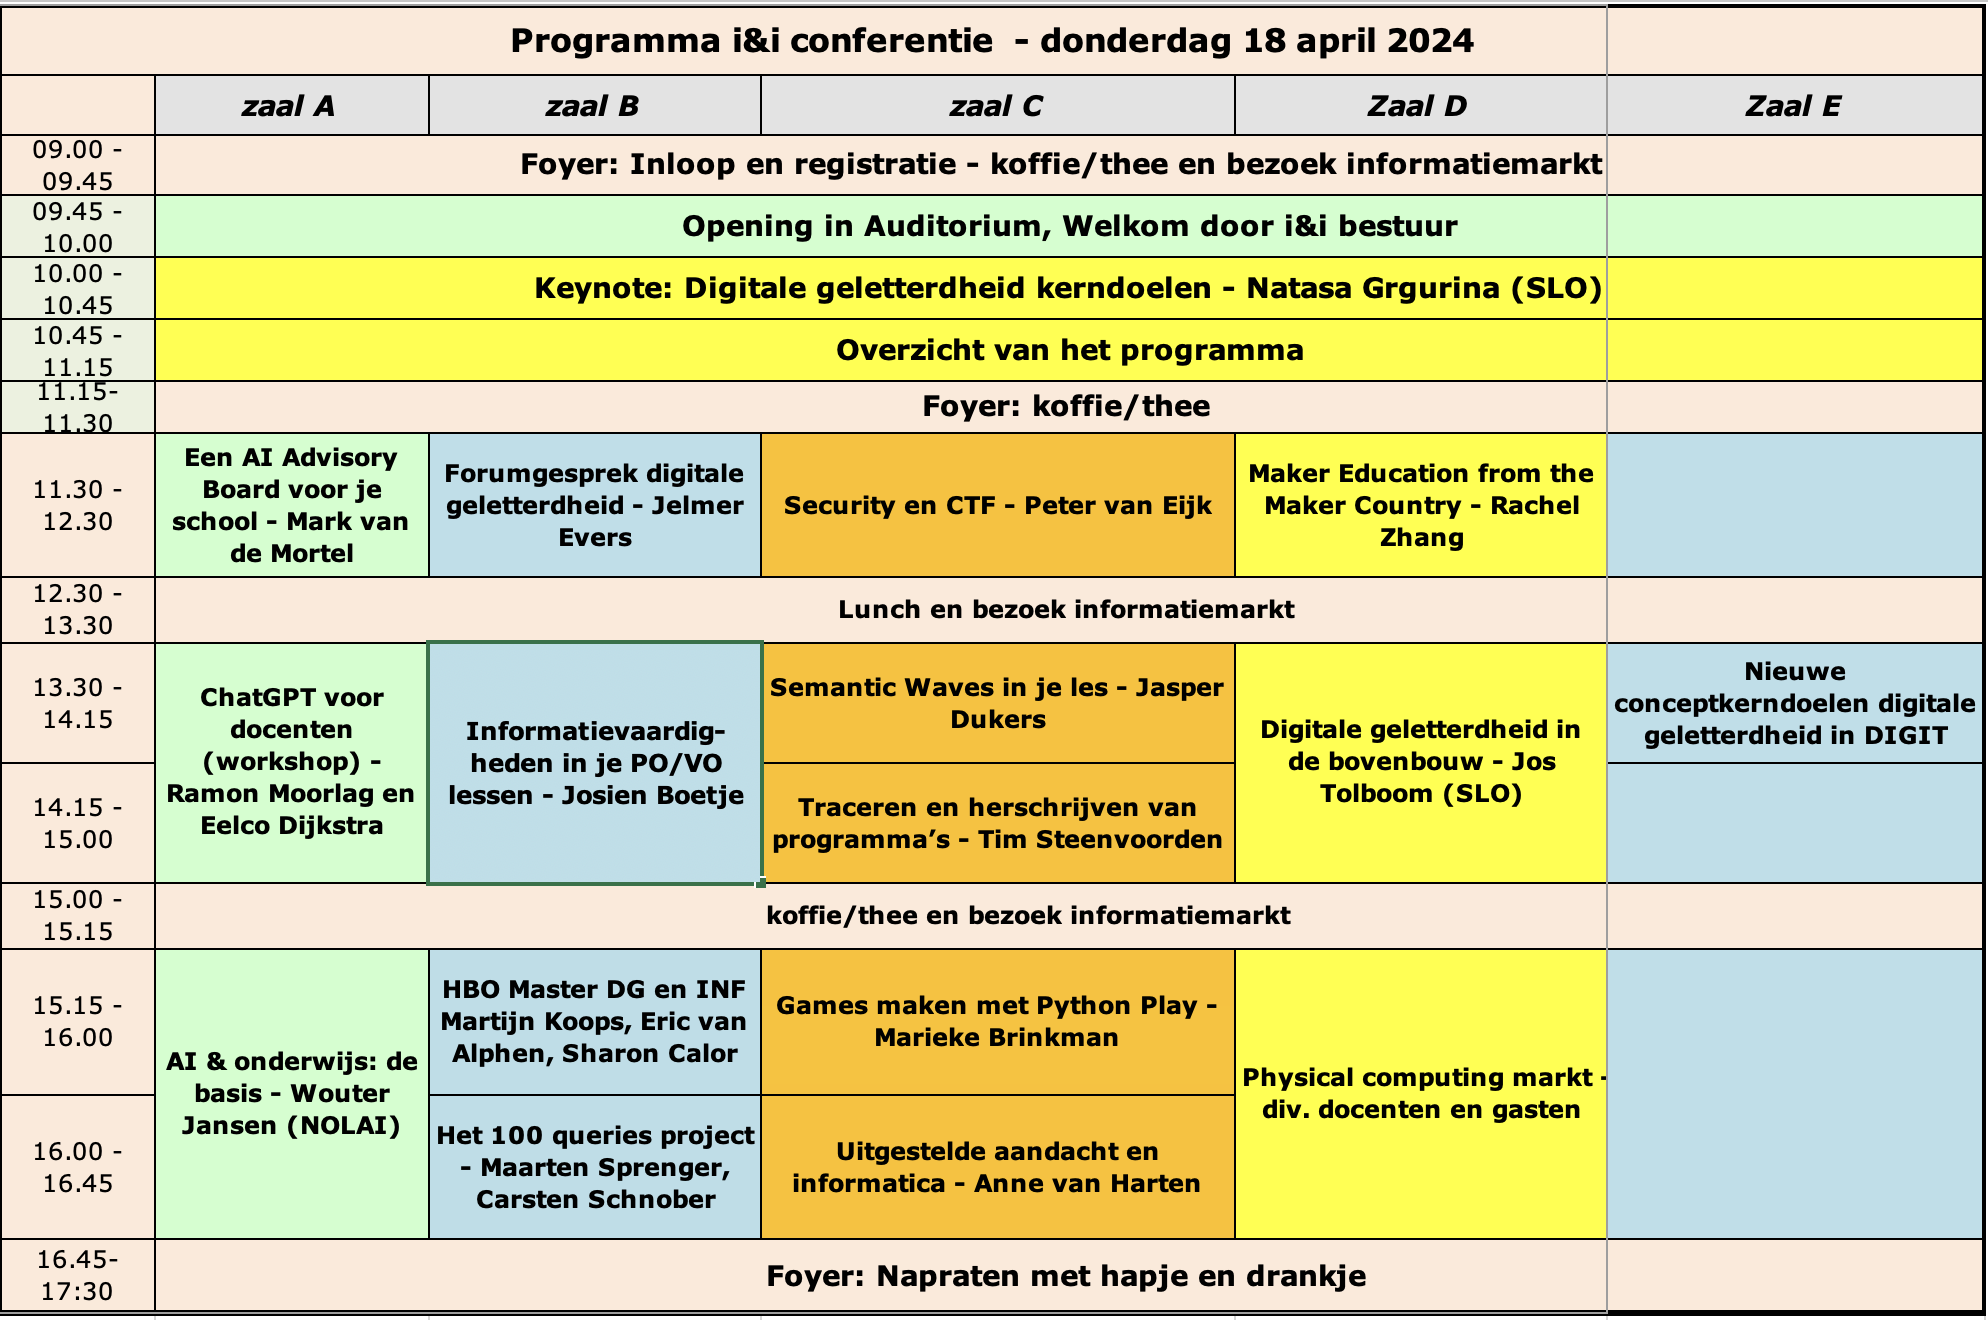
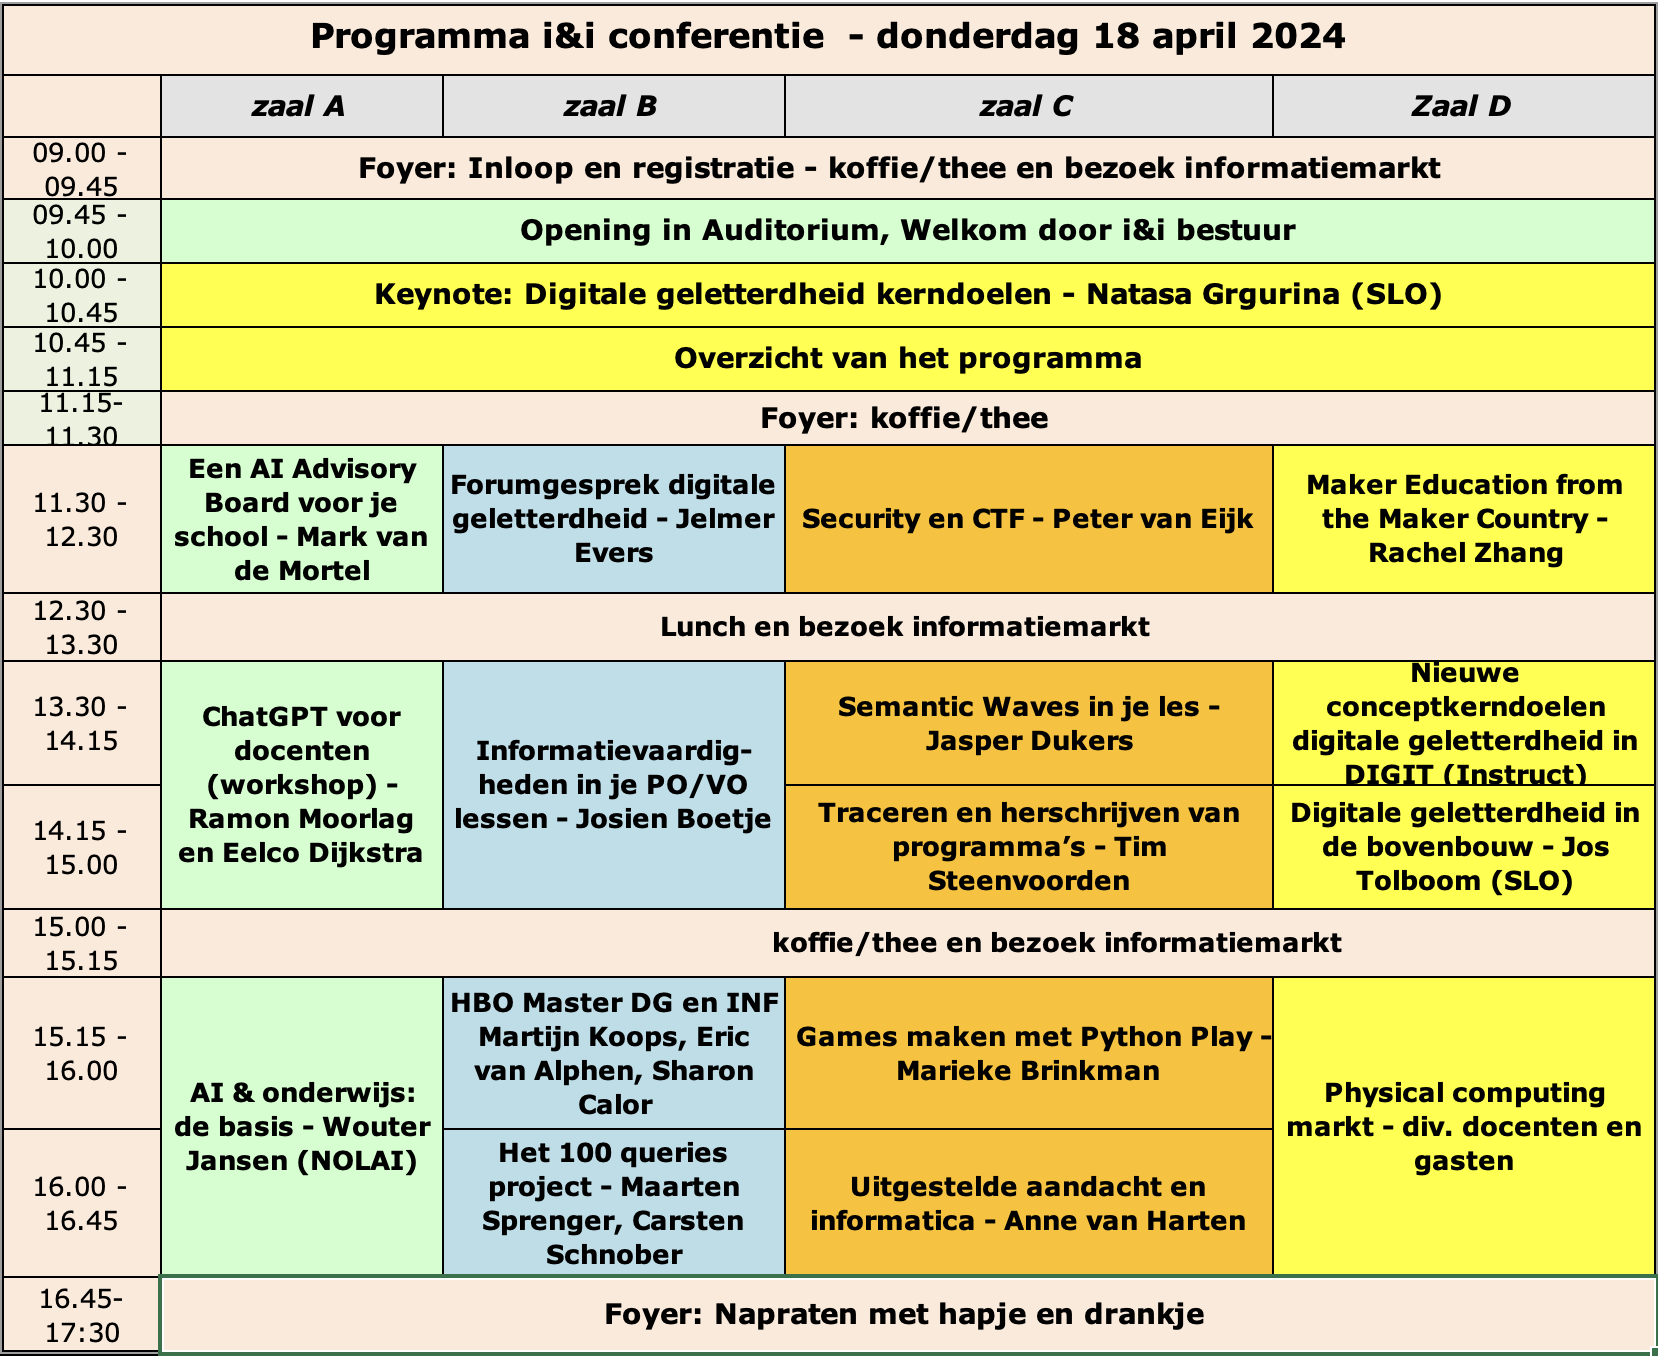
Sessies Instruct en Jos en Instruct

diff --git a/dg/dg-bovenbouw.md b/dg/dg-bovenbouw.md
@@ -1,3 +1,21 @@
 # Digitale geletterdheid in de bovenbouw
 
 *Jos Tolboom (SLO)*
+
+Op 6 maart jongstleden heeft demissionair minister Paul de conceptkerndoelen
+voor digitale geletterdheid (DG; po – onderbouw vo) in ontvangst genomen.
+Hiermee is de ontwikkelfase van die conceptkerndoelen officieel afgesloten. De
+fase van beproeven van de conceptkerndoelen wordt nu voorbereid om na de zomer
+van dit jaar van start te gaan. Dan start ook het onderzoek naar hoe DG in de
+conceptkerndoelen van andere leergebieden en de conceptexamenprogramma’s van
+de verschillende vakken een plek heeft gekregen.
+
+Dit vooronderzoek heeft als doel om te bepalen in hoeverre we geslaagd zijn
+inhouden van DG te laten landen in het curriculum en welke witte vlekken er
+mogelijk nog zijn. Mede op basis van dit onderzoek neemt OCW een beslissing
+over eventuele examenprogramma’s voor DG in vmbo-havo-vwo. Ondertussen is er
+ook een expertisepunt DG opgericht en worden er leerlijnen DG ontwikkeld.
+Kortom: flinke stappen zijn gezet, maar er moet ook nog veel gebeuren. Meer
+daarover in deze werkgroep. Deel je gedachten over hoe één en ander kan worden
+gerealiseerd. Zodat we ons samen voorbereiden op een toekomst waarin DG het
+Nederlandse curriculum versterkt.

diff --git a/dg/maker-education.md b/dg/maker-education.md
@@ -1,6 +1,10 @@
 # Maker Education from the Maker Country
 
-**Rachel Zhang, DFRobot (China)**
+**Rachel Zhang, DFRobot (China) - Engelstalige presentatie!**
 
-(Engelstalige presentatie)
+In 2022, the latest curriculum stardards was released and ICT (lees: digitale
+geletterdheid, informatica, maker education) finally has its stand-alone
+standards from grade 1-9 for the first time in 30 years. If you are interested
+in the history of ICT development and how the new standards are implemented,
+this is the session for you.
 

diff --git a/index.md b/index.md
@@ -143,7 +143,6 @@ Informatievaardigheden in je PO/VO lessen
 
 :::{card}
 :header: DG/INF 
-**Parallel!!**
 
 [Nieuwe concept-kerndoelen DG in DIGIT](dg/instruct-digit)
 *Instruct*
